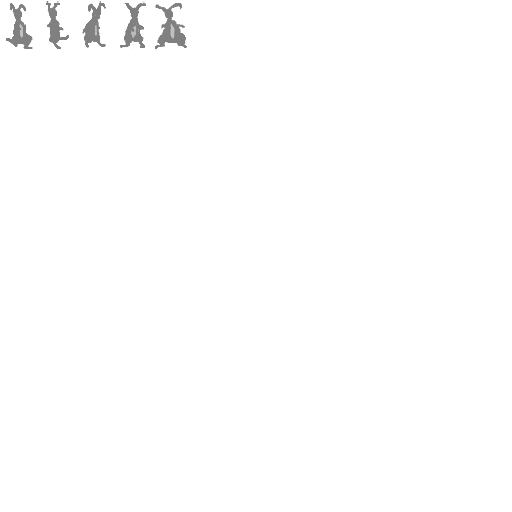
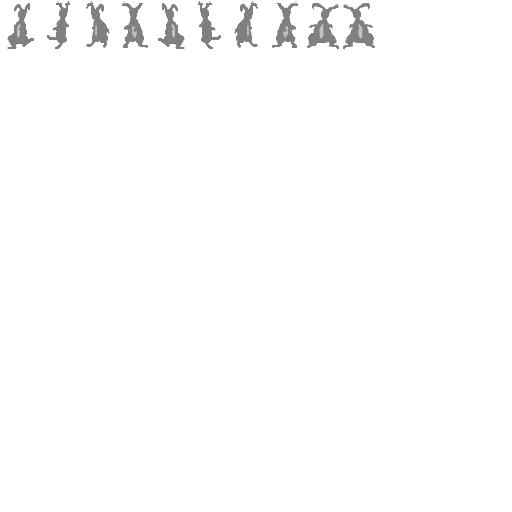
Add left-facing animation

Changed region(s): [[0.0938, 0.0, 0.5, 0.0938], [0.5312, 0.0, 0.75, 0.0938], [0.0, 0.0, 0.0625, 0.0938]]

diff --git a/tools/__init__.py b/tools/__init__.py
@@ -1,0 +1,1 @@
+__author__ = 'mick'
